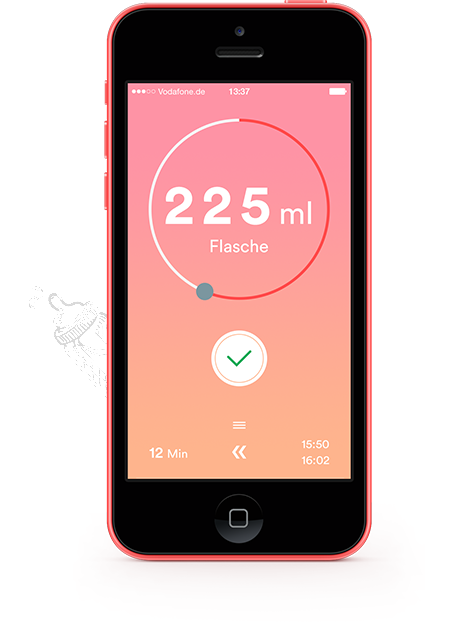
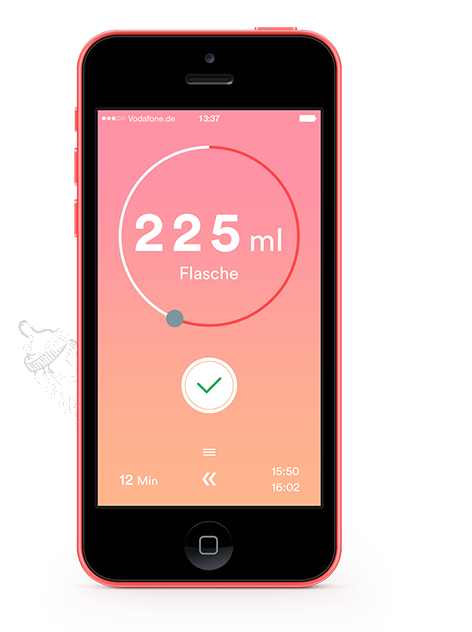
fixed feature images

diff --git a/css/main.scss b/css/main.scss
@@ -19,23 +19,23 @@ body {
     margin-top: 50px;
 
     &.default {
-      @include icon("/images/hero-default", "png", 455px, 632px);
+      @include icon("/images/hero-default", "png", 472px, 632px);
     }
 
     &.clock {
-      @include icon("/images/hero-clock", "png", 455px, 632px);
+      @include icon("/images/hero-clock", "png", 472px, 632px);
     }
 
     &.history {
-      @include icon("/images/hero-history", "png", 455px, 632px);
+      @include icon("/images/hero-history", "png", 472px, 632px);
     }
 
     &.bottle {
-      @include icon("/images/hero-bottle", "png", 455px, 632px);
+      @include icon("/images/hero-bottle", "png", 472px, 632px);
     }
 
     &.recommended {
-      @include icon("/images/hero-recommended", "png", 455px, 632px);
+      @include icon("/images/hero-recommended", "png", 472px, 632px);
     }
   }
 
